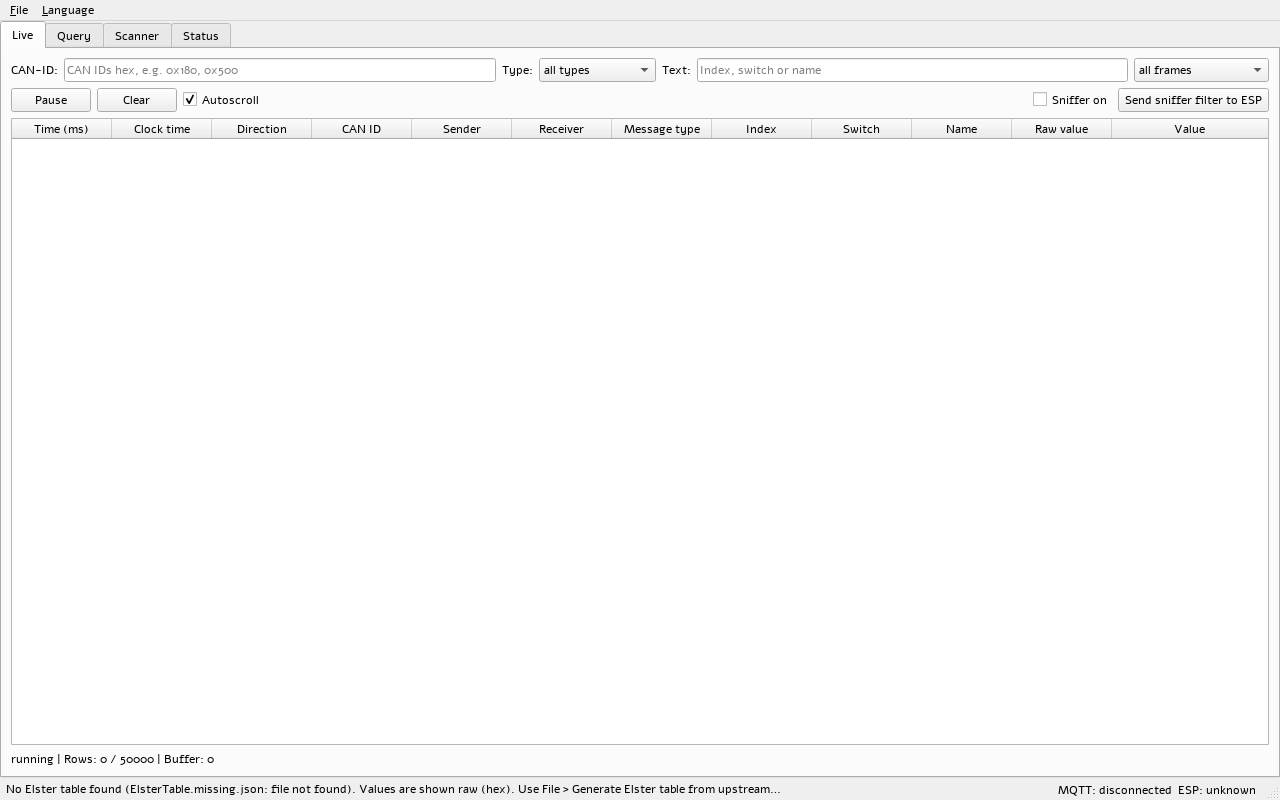
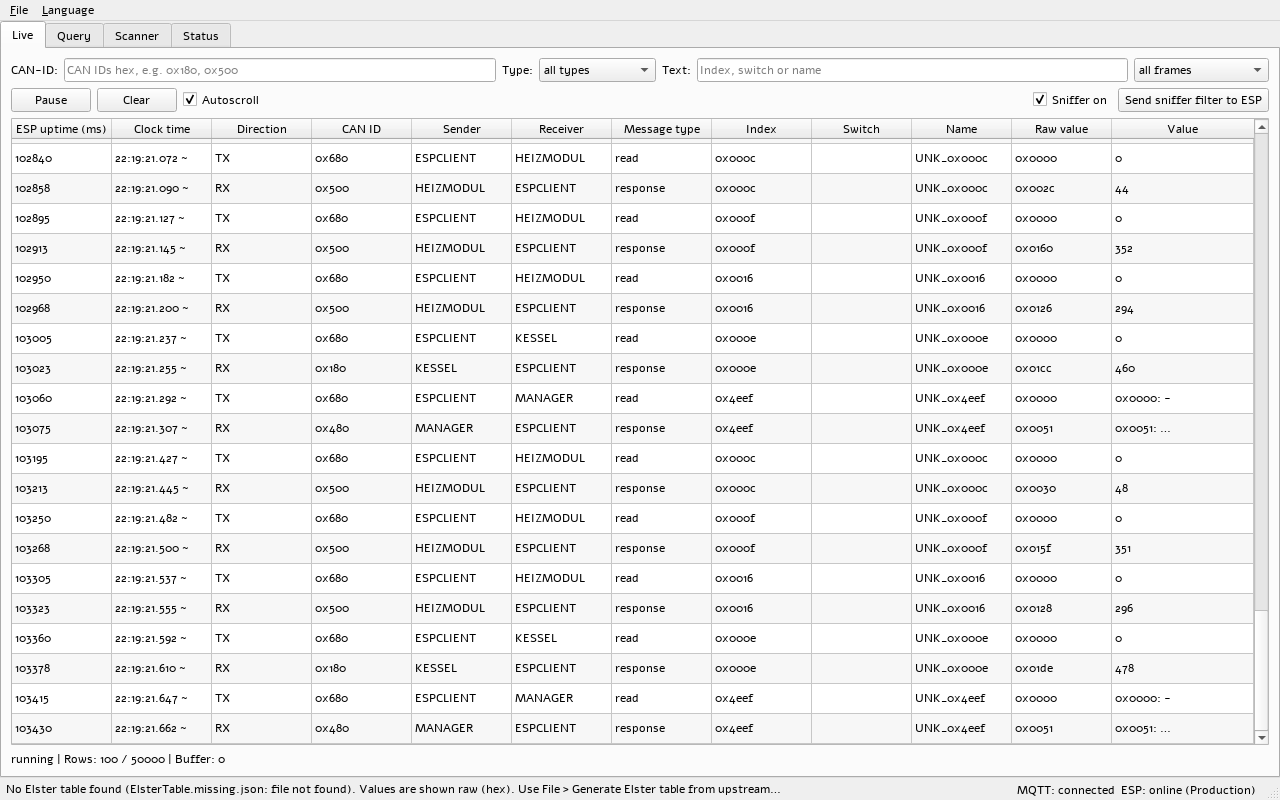
docs: German screenshots and live data in screenshot 06
- tools/make_screenshots.py: option --lang de writes the German images
  to docs/screenshots/de/. Screenshot 06 (start without Elster table)
  now shows live frames, decoded raw (UNK_0x<index>, unscaled values).
- SCREENSHOTS.de.md and README.de.md use the German images; labels
  follow the German UI.
- English 01 and 02 regenerated for the current UI (#7, #9).

diff --git a/tools/make_screenshots.py b/tools/make_screenshots.py
@@ -1,7 +1,8 @@
 """Screenshots of the main GUI for docs/screenshots/ (offscreen, no broker, no secrets).
 
 Start from the repository root:
-    .venv/Scripts/python.exe -I tools/make_screenshots.py
+    .venv/Scripts/python.exe -I tools/make_screenshots.py          (English, docs/screenshots/)
+    .venv/Scripts/python.exe -I tools/make_screenshots.py --lang de (German, docs/screenshots/de/)
 
 No MQTT connection: MqttBridge.connect_to() is never called. The demo data goes through
 bridge._on_message() (the same hook the tests use), so the same parsers and signals fill the tabs
@@ -20,13 +21,14 @@ from pathlib import Path
 
 ROOT = Path(__file__).resolve().parents[1]
 GUI = ROOT / "gui"
-OUT = ROOT / "docs" / "screenshots"
+LANG = sys.argv[sys.argv.index("--lang") + 1] if "--lang" in sys.argv else "en"
+OUT = ROOT / "docs" / "screenshots" if LANG == "en" else ROOT / "docs" / "screenshots" / LANG
 
 # Environment first: elster reads the table path at import time.
 os.environ["QT_QPA_PLATFORM"] = "offscreen"
 # Offscreen has no font database of its own: without this, all text is drawn as boxes.
 os.environ.setdefault("QT_QPA_FONTDIR", os.path.join(os.environ.get("SystemRoot", "C:\\Windows"), "Fonts"))
-os.environ["STIEBEL_GUI_LANG"] = "en"
+os.environ["STIEBEL_GUI_LANG"] = LANG
 os.environ["STIEBEL_GUI_CONFIG_DIR"] = "demo-config"      # relative: no user path in the dialog
 os.environ["STIEBEL_SECRETS"] = "none-secrets.yaml"       # does not exist: secrets.yaml is never read
 os.environ["ELSTER_PRIVATE_JSON"] = "none-private.json"   # does not exist: no private overlay
@@ -37,7 +39,8 @@ sys.path.insert(0, str(GUI))
 
 import i18n  # noqa: E402
 
-i18n.set_language("en")
+if not i18n.set_language(LANG):
+    sys.exit(f"unknown language: {LANG}")
 
 import upstream_table  # noqa: E402
 
@@ -241,11 +244,19 @@ def main() -> int:
     grab(app, dlg, "05-dialog-generate-table.png")
     dlg.close()
 
-    # Startup without a table: status bar note, values raw
+    # Startup without a table: status bar note, the same live frames shown raw (hex)
     db_missing = elster.ElsterDb(str(TMP / "ElsterTable.missing.json"), overlay=False)
-    win2 = elster_gui.MainWindow(db_missing, MqttBridge())
+    bridge2 = MqttBridge()
+    win2 = elster_gui.MainWindow(db_missing, bridge2)
     win2.setFixedSize(WIDTH, HEIGHT)
     win2.show()
+    send_status(bridge2, 184213, 2290)
+    feed(bridge2, "heatingpump/status", "online")
+    bridge2.connected.emit(True)  # display only, no broker connection
+    feed(bridge2, "heatingpump/can_debug/state", "on")
+    feed(bridge2, "heatingpump/can_debug/frames", live_frames(t0=100000, cycles=10))
+    win2.live_tab._flush()
+    win2._tabs.setCurrentIndex(0)
     grab(app, win2, "06-start-ohne-tabelle.png")
     win2.close()
 

diff --git a/docs/SCREENSHOTS.de.md b/docs/SCREENSHOTS.de.md
@@ -2,28 +2,29 @@
 
 # Screenshots
 
-Die Bilder zeigen synthetische Demo-Daten. Es war keine echte MQTT-Verbindung
+Die Bilder zeigen die deutsche Oberfläche (Sprache **Sprache > Deutsch**) mit
+synthetischen Demo-Daten. Es war keine echte MQTT-Verbindung
 aktiv. Die Bilder entstehen mit `tools/make_screenshots.py`. Neu erzeugen
 (Windows, PySide6 nötig, Schriften aus dem Windows-Fontordner):
 
 ```
-.venv/Scripts/python.exe -I tools/make_screenshots.py
+.venv/Scripts/python.exe -I tools/make_screenshots.py --lang de
 ```
 
 ## 01 Tab Live
 
-![Tab Live](screenshots/01-live.png)
+![Tab Live](screenshots/de/01-live.png)
 
 Der Tab Live zeigt CAN-Frames vom ESP in Echtzeit, mit Richtung, Sender,
 Empfänger, Art der Nachricht, Index, Name, Rohwert und dekodiertem Wert. Mit den
 Filtern für CAN-ID und Art sowie dem Textfeld (Index, Schalter oder Name) wird die
-Liste eingegrenzt. Der Modus „letzter Wert pro Index“ zeigt nur den neuesten Frame
-je Sender, Index und Schalter. „Sniffer on“ und „Sniffer-Filter an ESP senden“
+Liste eingegrenzt. Der Modus „letzter Wert je Index“ zeigt nur den neuesten Frame
+je Sender, Index und Schalter. „Sniffer an“ und „Sniffer-Filter an ESP senden“
 steuern den Sniffer im ESP.
 
 ## 02 Tab Abfrage
 
-![Tab Abfrage](screenshots/02-query.png)
+![Tab Abfrage](screenshots/de/02-query.png)
 
 Der Tab Abfrage liest bei Bedarf ein Elster-Signal eines oder mehrerer Members.
 Das Beispiel liest Index 0x4EEF von MANAGER (0x480). Man wählt Empfänger, Index
@@ -37,29 +38,29 @@ Bestätigung.
 
 ## 03 Tab Scanner
 
-![Tab Scanner](screenshots/03-scanner.png)
+![Tab Scanner](screenshots/de/03-scanner.png)
 
 Der Tab Scanner fragt einen Index-Bereich eines CAN-Members ab und listet die
-Treffer mit Namen aus der Referenztabelle. „responses only (ok)“ blendet leere
-Antworten aus, „Export CSV“ speichert die Liste. Die Zeitschätzung zeigt die
-erwartete Dauer vor dem Start. Der untere Teil „Member search (production)“ sucht
+Treffer mit Namen aus der Referenztabelle. „nur Antworten (ok)“ blendet leere
+Antworten aus, „CSV exportieren“ speichert die Liste. Die Zeitschätzung zeigt die
+erwartete Dauer vor dem Start. Der untere Teil „Teilnehmersuche (Produktiv)“ sucht
 im CAN-ID-Bereich nach Teilnehmern, die auf einen Index antworten. Ein
 Doppelklick auf einen Treffer kopiert dessen ID in das Feld des Scanners.
 
 ## 04 Tab Status
 
-![Tab Status](screenshots/04-status.png)
+![Tab Status](screenshots/de/04-status.png)
 
 Der Tab Status zeigt, ob die Firmware online ist, die MQTT-Verbindung, die Art
 der Firmware, die Zähler für RX- und TX-Frames und die Frames pro Sekunde. Dazu
 kommen die Füllung des RX-Puffers, der Überlaufzähler, der TWAI-Fehlerzähler, das
 Bus-Off-Flag und der freie Heap. Damit prüft man den Zustand des ESP. Steigende
-TWAI-Fehler, Bus-Off „YES“, ein Überlauf über 0 oder ein voller RX-Puffer deuten
+TWAI-Fehler, Bus-Off „JA“, ein Überlauf über 0 oder ein voller RX-Puffer deuten
 auf ein Problem am Bus oder in der Firmware hin.
 
 ## 05 Dialog „Elster-Tabelle aus Upstream erzeugen“
 
-![Dialog zum Erzeugen der Elster-Tabelle](screenshots/05-dialog-generate-table.png)
+![Dialog zum Erzeugen der Elster-Tabelle](screenshots/de/05-dialog-generate-table.png)
 
 Aufruf über **Datei > Elster-Tabelle aus Upstream erzeugen…**. Der Dialog zeigt
 den gepinnten Upstream-Stand (Repo, Commit, Datum). Man wählt das Modell (hier
@@ -70,9 +71,10 @@ Tabelle zu nutzen.
 
 ## 06 Start ohne Elster-Tabelle
 
-![Start ohne Elster-Tabelle](screenshots/06-start-ohne-tabelle.png)
+![Start ohne Elster-Tabelle](screenshots/de/06-start-ohne-tabelle.png)
 
 Beim ersten Start gibt es noch keine `ElsterTable.json`. Die GUI startet trotzdem.
 Die Statusleiste meldet, dass keine Tabelle gefunden wurde, und verweist auf
 **Datei > Elster-Tabelle aus Upstream erzeugen…**. Bis eine Tabelle erzeugt ist,
-werden die Werte roh (hex) angezeigt.
+werden die Werte roh angezeigt: Namen als `UNK_0x<index>`, Werte ohne Skalierung
+(z. B. Vorlauftemperatur 0x000f mit 352 statt 35.2).

diff --git a/docs/SCREENSHOTS.md b/docs/SCREENSHOTS.md
@@ -8,7 +8,11 @@ images are generated by `tools/make_screenshots.py`. To regenerate them
 
 ```
 .venv/Scripts/python.exe -I tools/make_screenshots.py
+.venv/Scripts/python.exe -I tools/make_screenshots.py --lang de
 ```
+
+The second command writes the German images to `screenshots/de/` for
+[SCREENSHOTS.de.md](SCREENSHOTS.de.md).
 
 ## 01 Live tab
 
@@ -72,5 +76,6 @@ needed. Restart the GUI to use the new table.
 
 On a first start, no `ElsterTable.json` exists yet. The GUI still starts. The
 status bar explains that no table was found and points to **File > Generate
-Elster table from upstream...**. Values are shown raw (hex) until a table is
-generated.
+Elster table from upstream...**. Until a table is generated, values are shown
+raw: names as `UNK_0x<index>`, values without scaling (for example, the flow
+temperature 0x000f shows 352 instead of 35.2).

diff --git a/docs/README.de.md b/docs/README.de.md
@@ -78,7 +78,7 @@ Die GUI startet auch ohne Elster-Tabelle (fehlende oder ungültige ElsterTable.j
 
 ### Screenshots
 
-![Tab Live mit CAN-Frames](screenshots/01-live.png)
+![Tab Live mit CAN-Frames](screenshots/de/01-live.png)
 
 Die Bilder zeigen synthetische Demo-Daten, keine Live-Verbindung. Beschreibung aller Tabs und Dialoge: [SCREENSHOTS.de.md](SCREENSHOTS.de.md) (Englisch: [SCREENSHOTS.md](SCREENSHOTS.md)).
 
